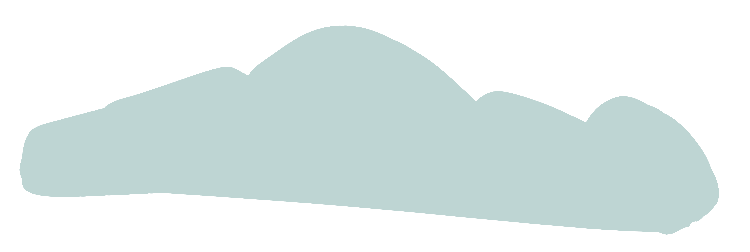
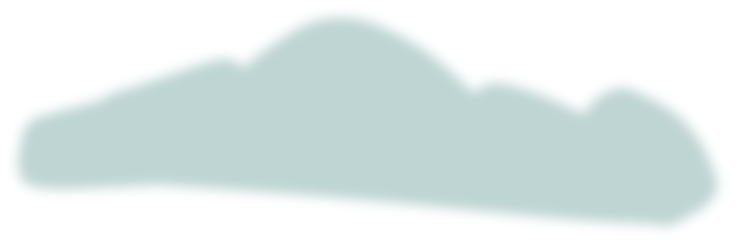
better, slower clouds

Changed region(s): [[0.0299, 0.0571, 0.9878, 0.9429], [0.0, 0.5714, 0.0299, 0.7143]]

diff --git a/Assets/Scripts/CameraScript.cs b/Assets/Scripts/CameraScript.cs
@@ -24,9 +24,9 @@ public class CameraScript : MonoBehaviour
         cam = GetComponent<CinemachineVirtualCamera>();
         noise = cam.GetCinemachineComponent<CinemachineBasicMultiChannelPerlin>();
         test = GameObject.Find("Global Light 2D").GetComponent<Light2D>();
-        for (int i = 0; i < Random.Range(4, 7); i++)
+        for (int i = 0; i < Random.Range(4, 11); i++)
         {
-            Instantiate(cloud, Vector2.right * Random.Range(-14, 14) + Vector2.up * Random.Range(3,6), Quaternion.identity, transform);
+            Instantiate(cloud, Vector2.right * Random.Range(-14, 14f) + Vector2.up * Random.Range(1,7.5f), Quaternion.identity, transform);
         }
     }
 
@@ -48,11 +48,11 @@ public class CameraScript : MonoBehaviour
             noise.m_FrequencyGain = 1;
         Camera.main.backgroundColor = skyGradient.Evaluate((gm.time % 180) / 180);
 
-        if (transform.childCount < 8)
+        if (transform.childCount < 11)
         {
-            for (int i = 0; i < Random.Range(4,7); i++)
+            for (int i = 0; i < Random.Range(4,13); i++)
             {
-                Instantiate(cloud, Vector2.right * Random.Range(10, 14f) + Vector2.up * Random.Range(3, 6f), Quaternion.identity, transform);
+                Instantiate(cloud, Vector2.right * Random.Range(10, 17f) + Vector2.up * Random.Range(1, 7.5f), Quaternion.identity, transform);
             }
         }
     }

diff --git a/Assets/Scripts/Clouds.cs b/Assets/Scripts/Clouds.cs
@@ -15,7 +15,7 @@ public class Clouds : MonoBehaviour
             rb = GetComponent<Rigidbody2D>();
             GetComponent<SpriteRenderer>().sprite = clouds[Random.Range(0, clouds.Length)];
             GetComponent<SpriteRenderer>().sortingOrder = Random.Range(-110, -105);
-            random = Random.Range(0.2f, 0.6f);
+            random = Random.Range(0.1f, 0.3f);
         }
         rb.velocity = Vector2.left * random;
         if (transform.localPosition.x < -12)
